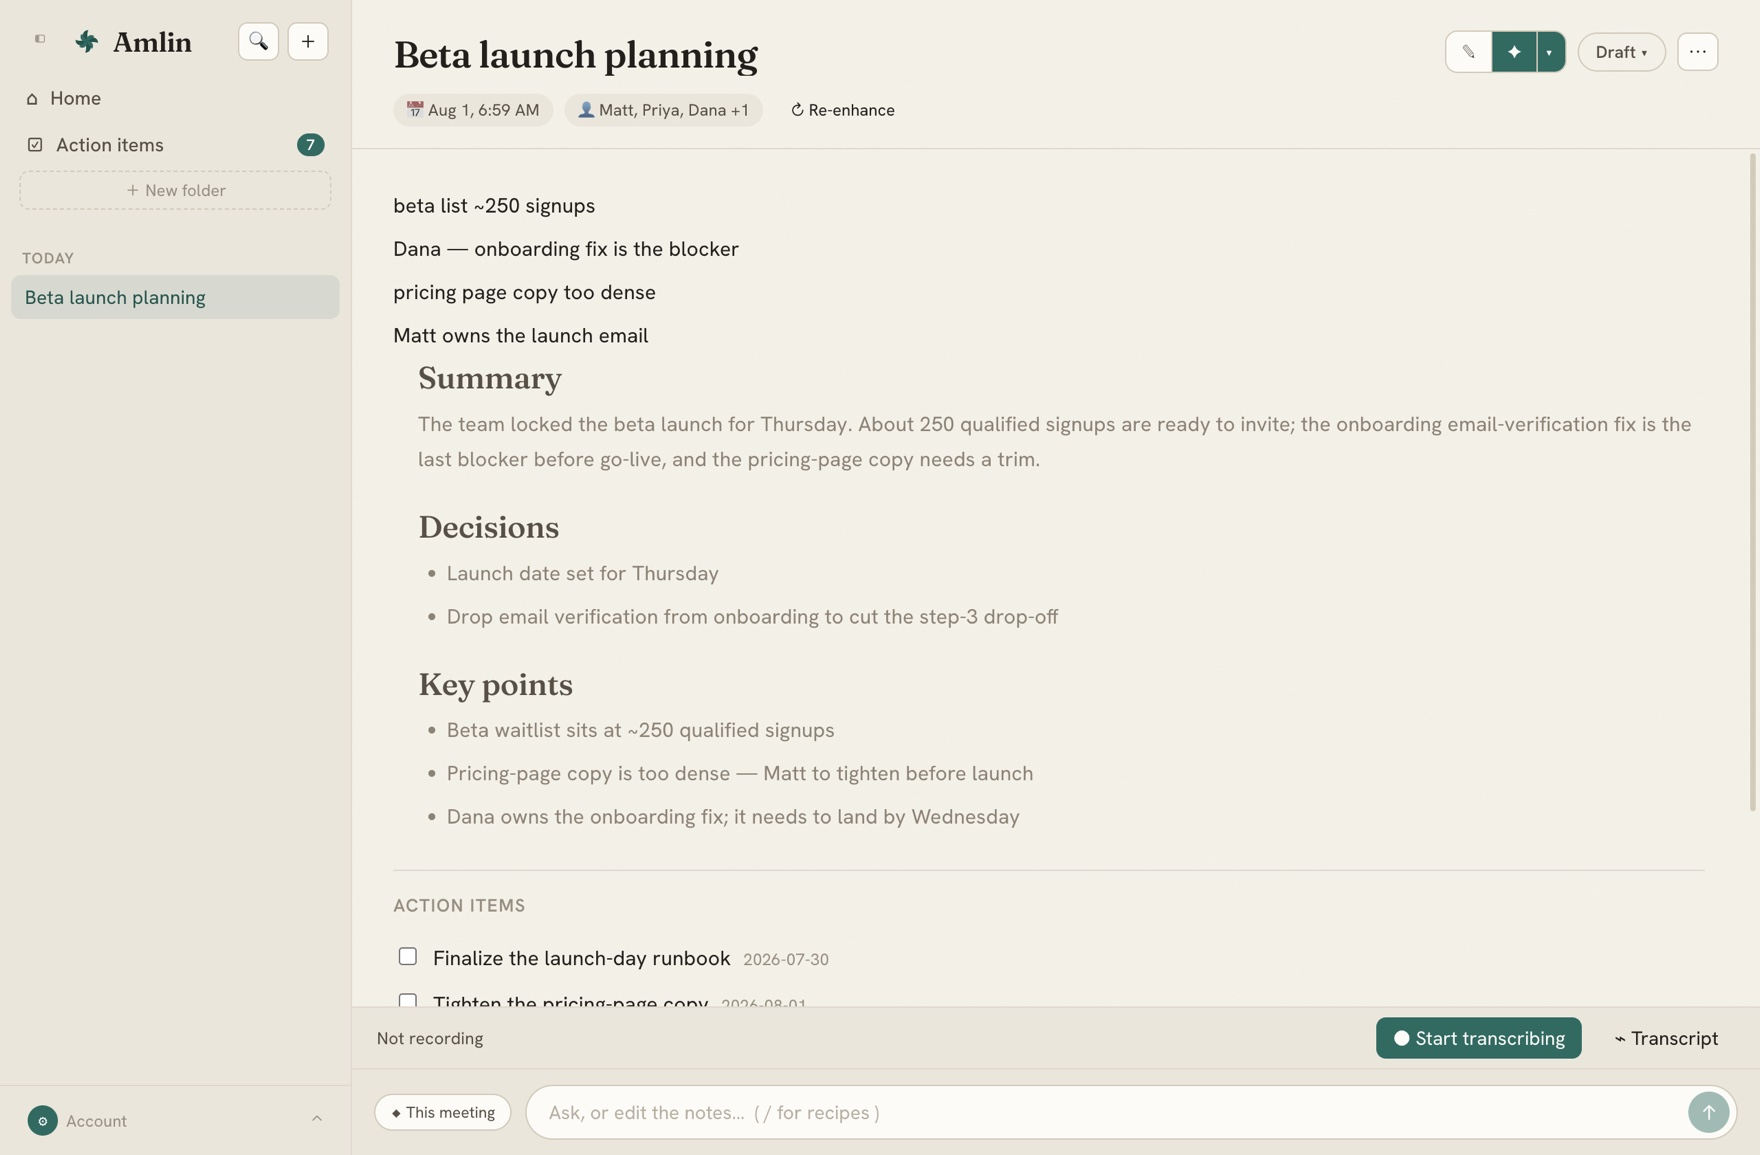
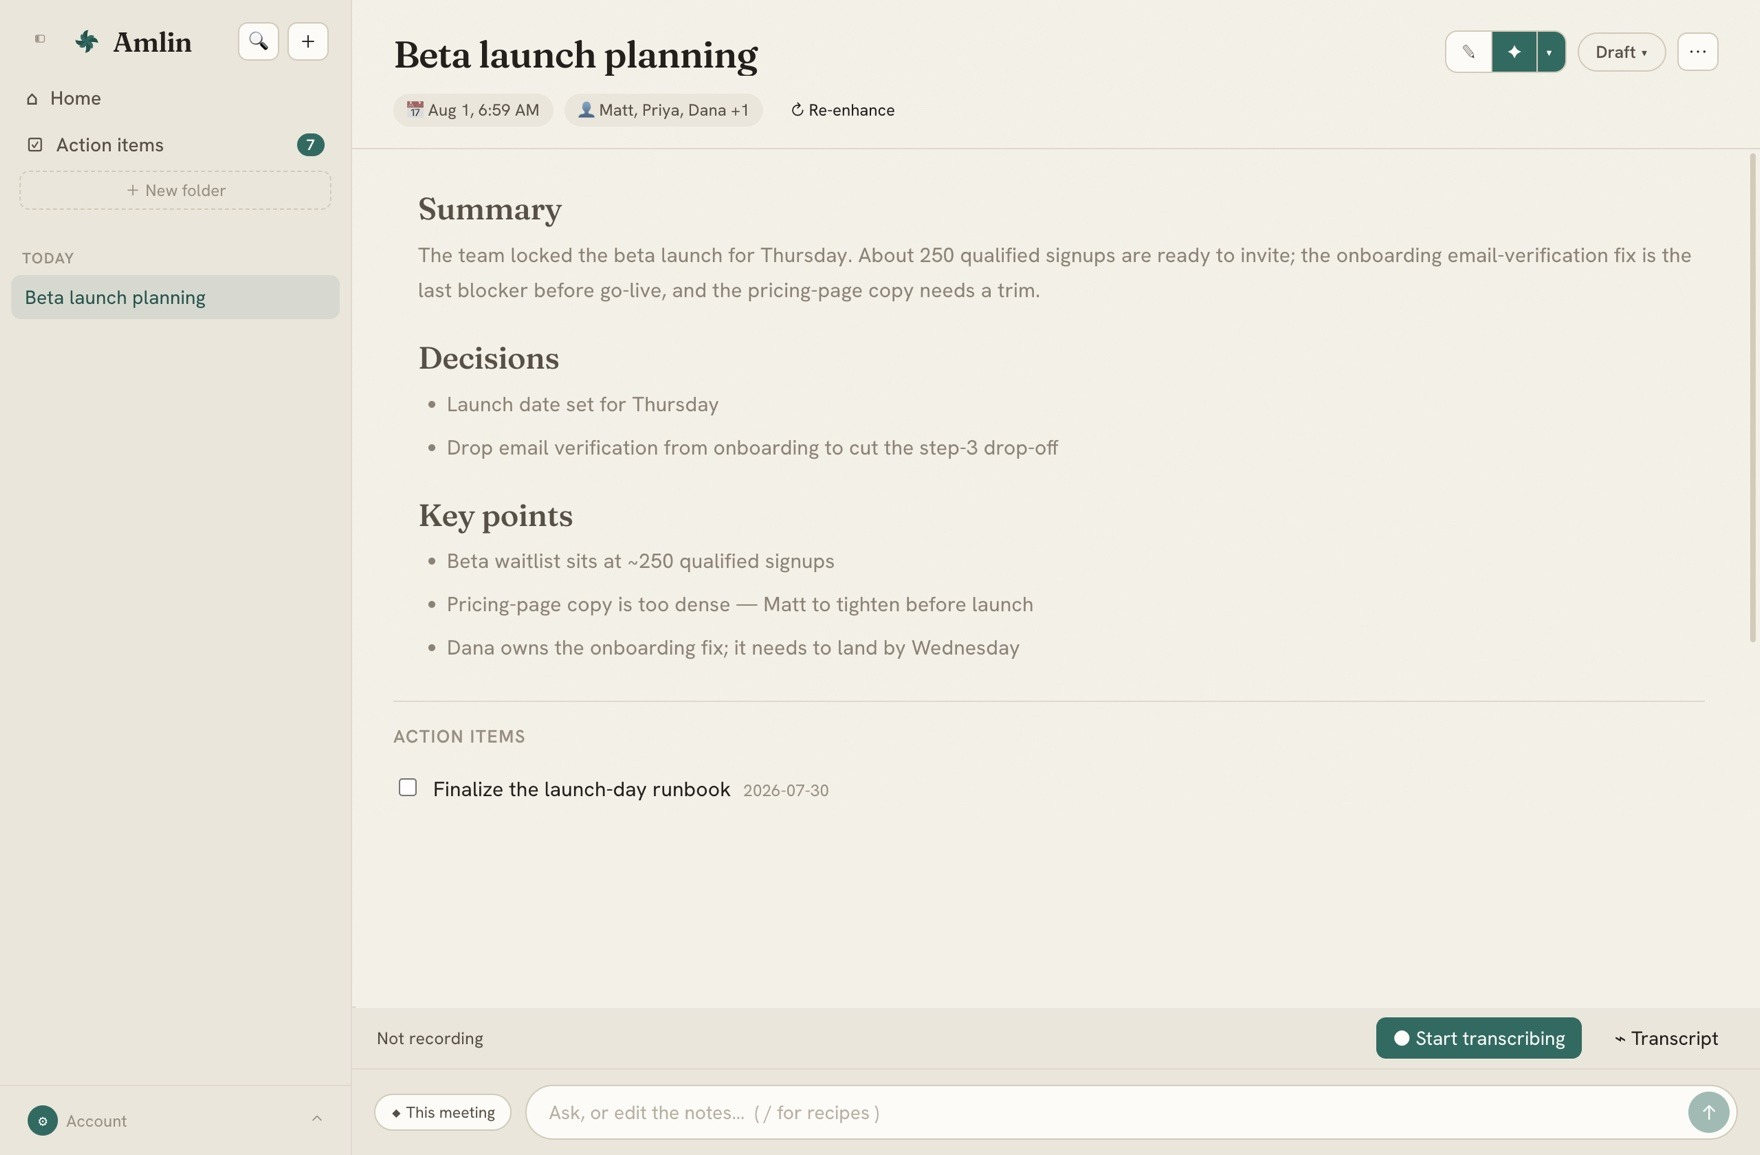
Update hero screenshot to show only the enhanced note
Removes the rough jotted-notes lines from desktop-note.jpg so the
mockup shows the note as the product actually presents it — the clean
structured summary — and updates the image alt text to match.

Claude-Session: https://claude.ai/code/session_01J2nftigZSN4enmNLxEAdas

diff --git a/index.html b/index.html
@@ -54,7 +54,7 @@
   <div class="hero-shot">
     <figure class="mac">
       <div class="mac-bar"><i class="tl-r"></i><i class="tl-y"></i><i class="tl-g"></i><b>Amlin</b></div>
-      <img class="shot" src="assets/desktop-note.jpg" alt="An Amlin meeting note: rough typed notes turned into a structured summary with decisions, key points, and action items." />
+      <img class="shot" src="assets/desktop-note.jpg" alt="An Amlin meeting note: a clean structured summary with decisions, key points, and action items." />
     </figure>
     <div class="strip">
       <div class="s"><div class="d">◑</div><h4>Me / Them transcript</h4><p>Mic and system audio, split into who said what — labeled live as you talk.</p></div>
